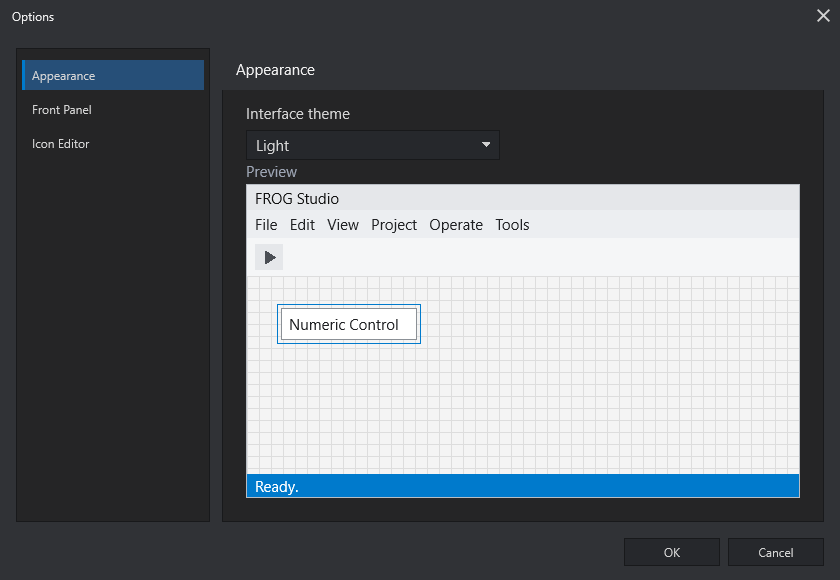
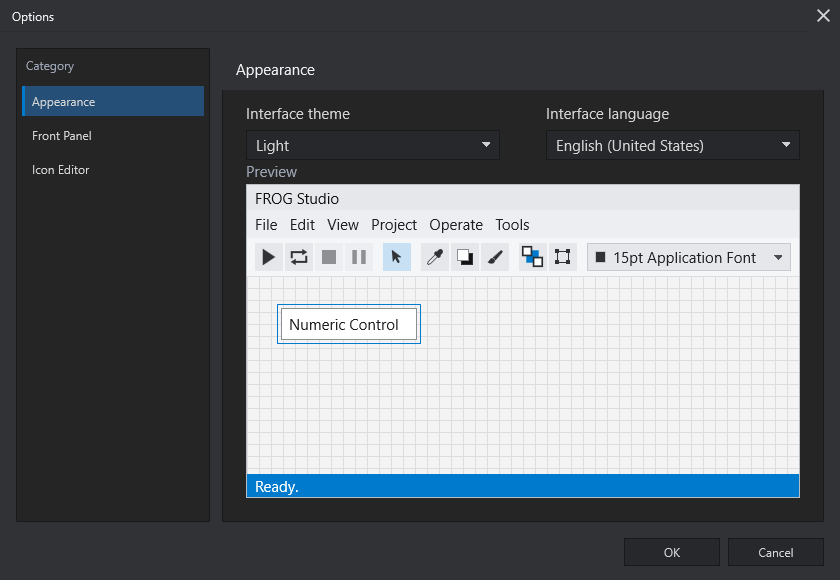
Update options documentation preview

diff --git a/docs/interface/options.md b/docs/interface/options.md
@@ -11,8 +11,14 @@ the close button leave the current settings unchanged.
 
 Appearance selects the interface theme. The current release provides **Dark**
 and **Light** profiles. Selecting a profile updates the preview immediately so
-you can inspect the title area, menus, toolbar, Front Panel, widget selection,
-grid, and status bar before applying it.
+you can inspect the title area, menus, execution and editing icon families,
+font control, Front Panel, widget selection, grid, and status bar before
+applying it.
+
+**Interface language** is available beside the theme selector. The choices are
+**English (United States)**, **French**, **Italian**, **Chinese (Simplified)**,
+**Japanese**, **German**, and **Spanish**. Simplified Chinese is used for the
+Chinese profile. Press **OK** to store the selection for future Studio sessions.
 
 ![Light theme preview](../../assets/screenshots/options/appearance-light-preview.png)
 
@@ -42,6 +48,8 @@ explicit source-owned layout.
 The Icon Editor category manages folders that contain reusable SVG glyphs.
 
 - **Add Folder...** selects a folder containing SVG assets.
+- Double-click a listed path to edit it in place. Press `Enter` to keep the
+  change or `Escape` to cancel the inline edit.
 - Selecting a listed path enables **Remove**.
 - **Remove** forgets the folder from the local profile; it does not delete the
   folder or any SVG file from disk.